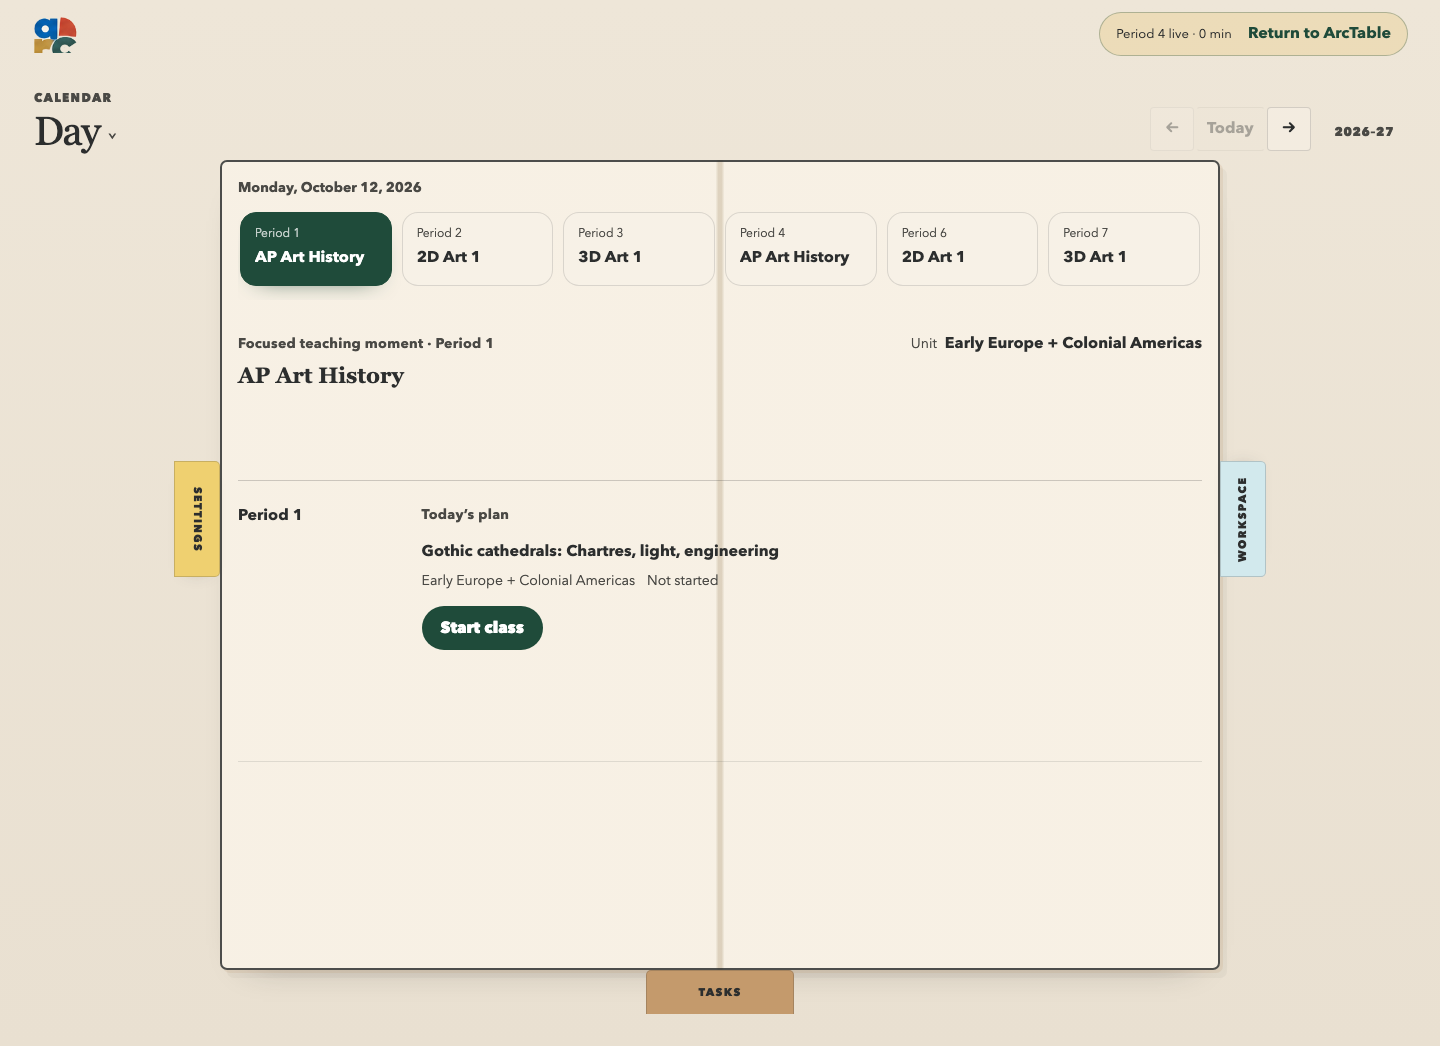
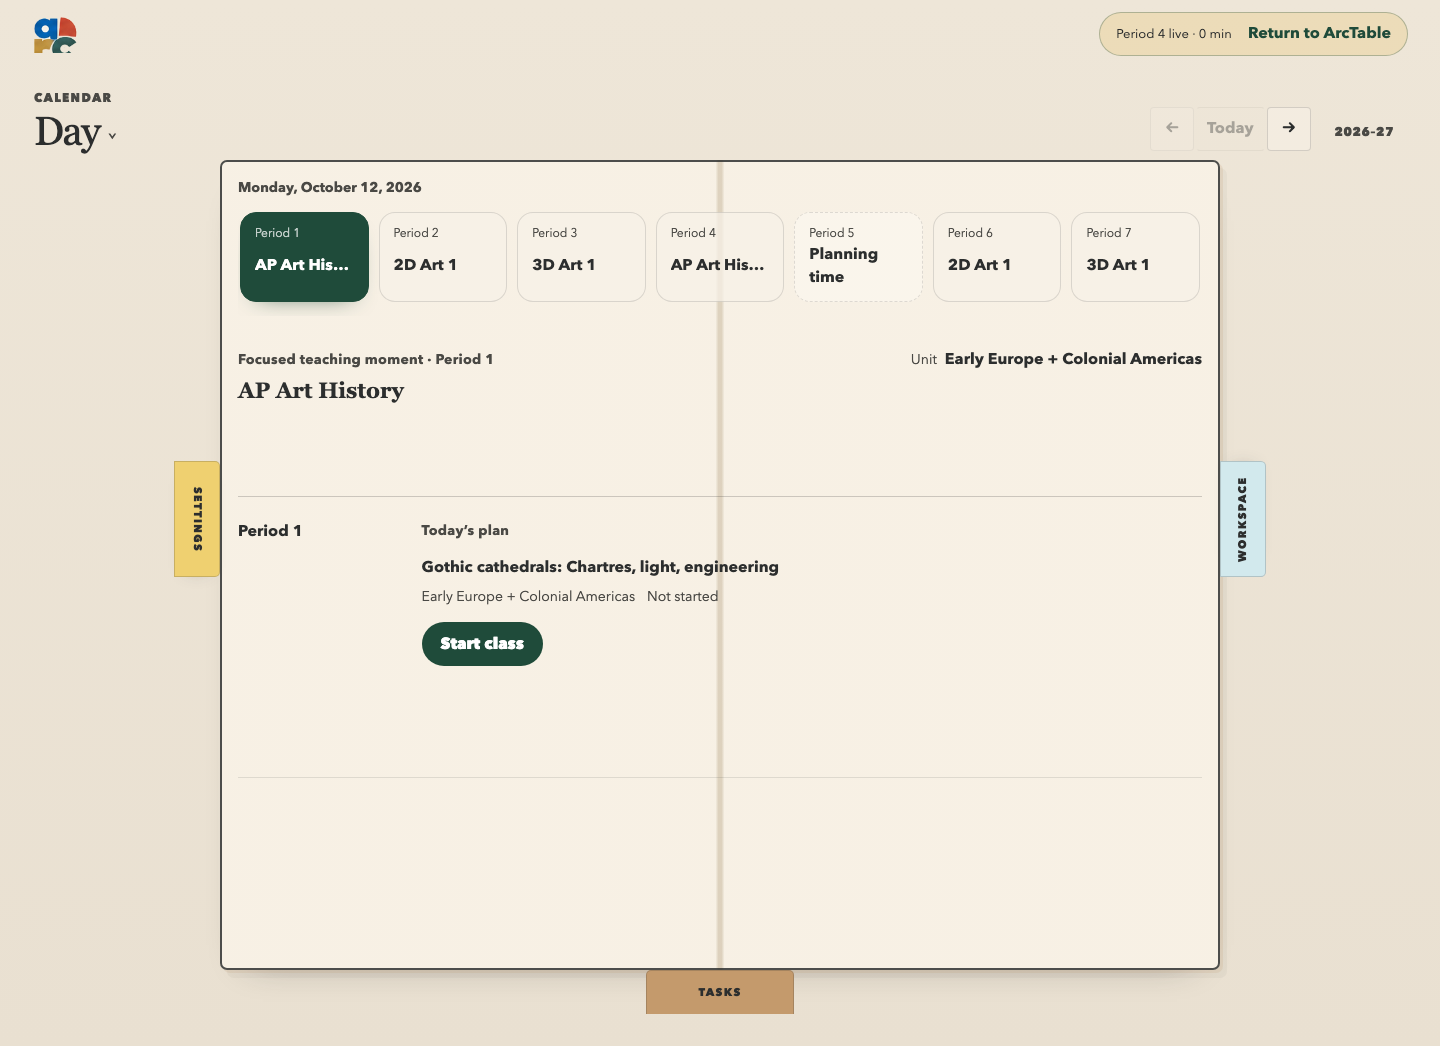
docs(arctable): preserve verification evidence

diff --git a/docs/overnight/ARC_MULTIPREP_ARCTABLE_REPORT.md b/docs/overnight/ARC_MULTIPREP_ARCTABLE_REPORT.md
@@ -1,90 +1,149 @@
-# Arc Multi-Prep + ArcTable integration report
+# Arc Multi-Prep + ArcTable production report
 
-Date: 2026-09-12  
-Branch: `codex/arc-multiprep-arctable-integration`  
-Starting/base HEAD: `f543ff25f86277809d68daeda5bb2a7bbe34a17f` (`design/v1-current-laws-reconciliation`)  
-Overall status: **YELLOW** — the requested core continuity path is implemented and tested; Month remains intentionally conservative, and two historical browser scripts encode superseded navigation/action placement.
+Date: 2026-09-13
 
-## What shipped
+Branch: `codex/arc-multiprep-arctable-integration`
 
-- Day is now a true teaching-day lens: a six-period multi-prep rail preserves the full day while one period is the clear working focus. The focused Lesson has the explicit `Start class` / `Resume in ArcTable` transition.
-- Week gives the selected instructional day materially more width while keeping the surrounding week readable.
-- Month remains a compact pacing and continuity lens. Unit spans sit above Lesson signals; it does not expand into full Lesson cards.
-- Year is organized as `Course → Unit sequence`. Each Course retains a distinct, subtle structural underlay and shared-plan Section count.
-- The visible “Fridge” metaphor is retired. The same reversible holding-place behavior is preserved as **Workspace**, including loose Lessons/Units, move-to-date, return-to-Workspace, undo, and capture-before-Course-placement.
-- ArcTable now has a dedicated public session/outcome boundary, durable live-session storage, a Teacher Monitor, and a distinct projected Student Surface.
-- A teacher can move `live → Plan View → live` without changing Lesson identity, Section identity, timer origin, phase, materials, voice expectation, cleanup state, or board lock.
-- `End Class` is deliberately different from opening Plan View. It records only the active Section outcome: complete, stop with a required resume note, or skip only while the launch still represents a never-started class.
-- Calendar setup error focus was repaired so the rendered error summary receives focus reliably.
+Design base: `f543ff25f86277809d68daeda5bb2a7bbe34a17f` (`design/v1-current-laws-reconciliation`)
 
-## Evidence sources used
+Continuation starting HEAD: `3cd321249722d772632e85bd72f3c8f6e11a832d`
+Overall status: **GREEN** — the core planning/live-class path and classroom tools are implemented, durable, accessible, and covered. Real slide-deck interoperability remains YELLOW.
 
-### Figma
+## Status vocabulary
 
-File `guts` (`CfWcuQPY4ljYXondICj2ZX`), page **Arc Multi-Prep Synthesis** (`6:46`) was inspected frame-by-frame:
+- **GREEN++**: implemented and proven across domain contracts, browser interaction, persistence boundaries, and hostile/continuity checks where relevant.
+- **GREEN**: implemented, accessible, persistent where required, and covered by appropriate verification.
+- **YELLOW**: intentionally limited or not yet proven end-to-end against a real external integration.
+- **RED**: missing, broken, or falsely represented as functional. There are no known RED rows in this report.
 
-- `7:46` — State 1 / My Teaching Day
-- `8:46` — State 2 / Working Inside a Class
-- `8:105` — State 3 / Planning a Course
-- `8:183` — State 4 / Longer Horizon Across Preps
-- `8:243` — State 5 / Plan in Motion
-- `12:46` — Product Architecture
-- `12:60` — Plan View / Week + Workspace
-- `12:155` — Live Monitor / ArcTable
-- `12:199` — Plan View while P4 stays Live
-- `14:49` — ArcTable Teacher Monitor
-- `15:46` — ArcTable Projected Student View
+Rendering alone never earns GREEN.
 
-The implementation follows the hierarchy and interaction laws in those frames, not a pixel-for-pixel reconstruction of a single static canvas.
+## Public architecture and donor boundary
 
-### ARC ASSETS 910
+There is still one canonical Arc planner. ArcTable is a temporary, Section-specific live projection that returns one explicit teaching outcome to the existing Lesson delivery-state model.
 
-The archive was inventoried before use. The production/manifests/fonts subset contained 317 production files, 21 manifest files, and 192 font files. `manifests/AUDIT_STATUS.txt` reports the asset library as GREEN++ but the broader product as not yet GOLD. `production/logos/arctable/PLACEMENT.md` and `GOLD-AUDIT.md` were used to select approved placements.
+```text
+AppFrame
+  ├─ useArcTableSession
+  │    └─ arcTableLiveState + arcTableTools
+  ├─ ArcTableTeacherMonitor
+  │    └─ live timer / cleanup / people / passes / media
+  └─ ArcTableStudentSurface
+       └─ deliberately projected public state only
 
-Integrated production assets:
+arcTableSession ──────────→ easelSessionProjection (validated donor)
+arcTableTeachingOutcome ──→ easelTeachingOutcome (validated donor)
+```
 
-- Arc mark, planner paper, and note paper
-- Instrument Serif and League Spartan
+Legacy Easel donors remain intentionally untouched:
+
+- `src/planning/easelSessionProjection.ts`
+- `src/planning/easelTeachingOutcome.ts`
+- their projection, outcome, and hostile core-loop contracts
+
+No legacy roster, pass-state, or media subsystem existed. The new tool state is scoped to the live Section and stored inside the existing durable ArcTable session boundary; it is not a second planning model.
+
+## Brutally accurate state table
+
+| State / capability | Visual presence | Verified functionality | Status |
+|---|---|---|---|
+| Day | Six-period teaching rail plus explicit Period 5 planning time and one focused teaching moment | Browser verifies Periods 1/2/3/4/6/7, Period 5 gap, focus, and P4 launch | **GREEN** |
+| Week | Selected day is materially wider; surrounding days remain readable | Browser measures unequal columns and verifies Section drift/fixed work remains visible | **GREEN** |
+| Month | Compact Unit bands, Lesson signals, Fixed labels, drift labels, and real gaps | Browser verifies Unit continuity, a fixed assessment, Period 6 drift, and no full-card expansion | **GREEN** |
+| Year | Course rows with subtle structural underlays and Unit sequence | Browser verifies all Courses and one underlay per Course at Unit resolution | **GREEN** |
+| Workspace | All visible and accessible language says Workspace | Capture-before-Course, holding, placement, return, and undo retain existing contracts; no visible “Fridge” in browser | **GREEN** |
+| Live identity | Course, Section, Unit, Lesson, phase, and class elapsed context | Identity and immutable `startedAt` survive Plan View and refresh; outcome remains Section-only | **GREEN++** |
+| Classroom timer | Production normal ring, editable duration, 5/10/15 presets, Start/Pause/Resume/Reset | Independent deterministic origin; running and paused states survive Plan View and refresh; completion settles explicitly | **GREEN++** |
+| Cleanup | Production cleanup ring/accent, distance-readable Student mode | Separate countdown supports start, pause, resume, cancel, completion, Plan View persistence, and never ends class | **GREEN++** |
+| People picker | Section-labeled production people surface and live result | Empty state, normalized names, duplicate prevention, keyboard operation, live announcement, persistence, deliberate projection, no planning mutation | **GREEN** |
+| Pass tools | Production available/active plates with requested/active/inactive state | Section-scoped, keyboard-native, persistent through Plan View, private on Student Surface, cleared with End Class | **GREEN** |
+| Artwork/image media | Real media apparatus with intentional empty and active states | Safe source schemes, selection, Plan View restore, deliberate Student projection, teacher-only edit controls | **GREEN** |
+| Presentation/slide media | Same apparatus supports a `slides` item and isolated iframe | State and render path are contract/type/build covered, but no real external deck was exercised end-to-end | **YELLOW** |
+| Projected Student Surface | Distinct quiet surface, normal/cleanup timer rings, media and optional picked student | No private pass data, no hidden keyboard-reachable controls, only one visible Exit projection action, 390px reflow | **GREEN** |
+| End Class | Explicit outcome dialog | Complete/stop-with-required-note/never-started-skip; clears live tools only after confirmation | **GREEN++** |
+
+## Classroom timer truth
+
+- `startedAt` remains immutable metadata for elapsed class duration.
+- `timer` owns independent duration, remaining seconds, status, and deterministic running origin.
+- `cleanupTimer` is a second countdown with independent status and duration.
+- Countdown states are `idle`, `running`, `paused`, and `completed`; cleanup is an explicit instructional mode derived from the cleanup countdown rather than a cosmetic boolean.
+- Live state schema is version 2. Stored version-1 sessions migrate forward, including an active legacy cleanup state.
+
+## People, pass, and media privacy
+
+- People, passes, and media each carry the active `sectionId`.
+- People selection and all pass details remain teacher-only unless a teacher explicitly projects the selected person.
+- The Student Surface never renders pass labels or states.
+- Only the active media item is shown, and only after the teacher enables projection.
+- Live tools are proven not to modify canonical planning workspace data.
+- End Class removes the live-session boundary, resolving transient people/pass/media state without inventing durable student records.
+
+## ARC ASSETS 910 function audit
+
+The archive subset contained 317 production files, 21 manifest files, and 192 font files. `AUDIT_STATUS.txt` calls the asset library GREEN++ but does not call the product GOLD. `PLACEMENT.md` and `GOLD-AUDIT.md` governed identity placement. No audit/gold label is exposed in product UI.
+
+### Wired because behavior exists
+
+- Arc mark, planner/note paper, Instrument Serif, League Spartan
 - ArcTable compact light/dark headers
-- ArcTable breeze-block tile, board panel, timer well, progress rail, normal/cleanup timer rings, cream paper, and green texture
+- board panel, progress rail, timer well, normal timer ring, cleanup timer ring
+- cleanup corner accent, people surface, pass available/active plates, media apparatus frame
 
-No “gold” badge or audit language is exposed in the product UI.
+### Represented functionally without redundant image layers
 
-## State-by-state status
+- progress markers: semantic progress rail and CSS fill
+- clock plate: readable live system clock and separate class duration
+- student display surface: dedicated Student component/surface
+- tools/people/pass tabs and teacher sidebar: semantic native controls and responsive sidebar
 
-| State | Status | Evidence / note |
-|---|---|---|
-| Day | **GREEN** | Six-period rail plus one focused teaching moment; repeated preps remain visible and each period can become current. |
-| Week | **GREEN** | Selected day is wider than surrounding days; multi-prep context and Workspace remain available. |
-| Month | **YELLOW** | Correct compact Unit/Lesson continuity and no oversized Lesson cards. Dense months are deliberately information-heavy and pre-school-year cells retain explicit unknown status. |
-| Year | **GREEN** | All Courses shown at Unit resolution with distinct structural underlays and readable Unit sequences. |
-| Workspace | **GREEN** | Visible metaphor and copy replaced; capture, unscheduled holding, placement, return, and undo survive. Internal legacy identifiers remain temporarily to preserve persisted contracts. |
-| ArcTable Teacher Monitor | **GREEN** | Course/Section/Lesson context, phase progress, live timer, materials, voice, board lock, student preview, people/pass tools, cleanup, Plan View, and explicit End Class. |
-| Projected Student Surface | **GREEN** | Quiet full-screen prompt with directions, timer, materials, phase, voice, and cleanup; teacher controls are absent. |
-| Live → Plan → Live | **GREEN** | Browser gate proves stable `startedAt`, Lesson id, Section id, and phase across the round trip. |
+### Deliberately not wired because behavior is outside this pass
+
+- Now/Next tabs, resource QR frame, hold/reconnecting plates
+- blackout/pause surface
+- group marker, groups folder, unit magnet, activity chip
+- notes and resources folders
+- decorative accents and separator variants already covered by the authored surface system
+
+These remain honest YELLOW inventory items rather than controls that pretend to work.
+
+## Design and accessibility audit
+
+- Approved Figma file `guts` (`CfWcuQPY4ljYXondICj2ZX`), page `Arc Multi-Prep Synthesis` (`6:46`), was reviewed against Day, Week/Workspace, plan-while-live, Teacher Monitor, and Student Surface frames.
+- Manual image review confirmed authored tactile/editorial character, central working space, variable emphasis, production identity placement, and distinct teacher/student hierarchy.
+- The required 12ui target comparison was attempted after installing the pinned CLI, but platform review blocked repository/reference upload to the external service because that egress was not explicitly authorized. No workaround was attempted. Local visual review and browser evidence continued independently.
+- Native buttons/inputs/selects provide keyboard operation and accessible names. Picker results use a polite live region.
+- Focus visibility is browser-verified. ArcTable motion is suppressed under `prefers-reduced-motion: reduce`.
+- Planner shell tests cover 200%/400% zoom and 320/390px widths. ArcTable additionally covers Teacher and Student reflow at 390px.
+- A verified Student overflow at 390px was fixed in this pass.
 
 ## Verification
 
-Passing:
+Verified before functional changes:
 
-- `npm run test:contracts` — 40/40 contract groups, including ArcTable persistence and all existing calendar/planning/recovery contracts
+- `npm run test:contracts`
 - `npm run typecheck`
 - `npm run build:bundle`
 - `node tests/arctable-continuity.smoke.mjs`
-- `node tests/phase2-nondrag-keyboard-parity.mjs`
-- `node tests/phase2-object-actions-section-divergence.mjs`
-- `node tests/phase2-recovery-undo-continuity.mjs`
-- `node tests/phase2-calendar-edge-planning-truth.mjs`
 - `git diff --check`
 
-Historical test mismatches, documented rather than masked:
+The four legacy phase-browser commands were dispatched during the initial baseline, but their completion output was not captured. The final verification sweep later exposed stale header-action selectors in all four. They were migrated to the current Settings workflow and then passed individually and in the final suite; they are not claimed as pre-change passes.
 
-- `tests/browser-a11y.smoke.mjs` reaches the repaired setup-error focus check, then expects all six internal calendar horizons to be visible. Current navigation law exposes only Day, Week, Month, and Year.
-- `tests/phase2-planning-truth.mjs` expects a visible `Set classes` header action. Current product architecture places that action in Settings furniture.
+Passing after functional changes:
 
-The new smoke gate covers the requested multi-prep seed (AP Art History, 2D Art 1, 3D Art 1 across Periods 1/2/3/4/6/7), Day/Week/Month/Year, Workspace, P4 ArcTable launch, teacher controls, the distinct Student Surface, live-plan-live continuity, and a Section-scoped teaching outcome.
+- `npm run build` — 41 contract groups, type-check, production bundle
+- `node tests/arctable-continuity.smoke.mjs`
+- `node tests/browser-a11y.smoke.mjs`
+- `node tests/phase2-planning-truth.mjs`
+- existing keyboard parity, Section divergence, recovery/undo, and calendar-edge planning gates
+- `git diff --check`
 
-## Screenshot evidence
+Six obsolete browser tests were updated to current product law:
+
+- visible navigation is Day / Week / Month / Year; Semester and Quarter remain internal boundary concepts
+- calendar, Course/Section, Unit, and Lesson setup lives in Settings furniture instead of permanent header actions
+
+## Fresh evidence
 
 - `evidence/01-day-multiprep.png`
 - `evidence/02-week-workspace.png`
@@ -93,10 +152,16 @@ The new smoke gate covers the requested multi-prep seed (AP Art History, 2D Art 
 - `evidence/04-plan-while-live.png`
 - `evidence/05-teacher-monitor.png`
 - `evidence/06-student-surface.png`
+- `evidence/07-timer-running.png`
+- `evidence/08-people-picker.png`
+- `evidence/09-pass-tools.png`
+- `evidence/10-media.png`
+- `evidence/11-cleanup-teacher.png`
+- `evidence/12-cleanup-student.png`
 
-## Architecture and debt notes
+## Guardrails honored
 
-- There is still one canonical planner. ArcTable projects a temporary live-teaching session from current Day continuity and writes back through the existing Lesson delivery-state model.
-- The existing Easel implementation remains the validated donor underneath ArcTable-named adapter modules. This keeps old contracts intact while presenting one new public product boundary; deleting the donor is follow-up cleanup, not a prerequisite for the feature.
-- Existing `fridge*` function names, storage contracts, CSS hooks, and test IDs remain internal compatibility seams. Visible product language and accessible labels use Workspace.
-- Month density and the two historical browser expectations are the remaining explicit YELLOW items. No deploy, Vercel mutation, merge, or main-branch edit was performed.
+- Existing `fridge*` internal compatibility seams remain intact.
+- Existing validated Easel donor code remains intact.
+- `main` and `design/v1-current-laws-reconciliation` were not modified.
+- No merge, deployment, or Vercel configuration change was performed.

diff --git a/docs/overnight/ARC_CONTINUATION_LOG.md b/docs/overnight/ARC_CONTINUATION_LOG.md
@@ -1,0 +1,67 @@
+# Arc + ArcTable continuation log
+
+## Guardrails and starting state
+
+- Date: 2026-09-13
+- Branch: `codex/arc-multiprep-arctable-integration`
+- Starting HEAD: `3cd321249722d772632e85bd72f3c8f6e11a832d`
+- Starting worktree: clean and tracking `origin/codex/arc-multiprep-arctable-integration`
+- Protected: `main` and `design/v1-current-laws-reconciliation` will not be modified.
+- Delivery boundary: no merge, deployment, or Vercel/configuration mutation.
+
+## ArcTable dependency map before continuation
+
+```text
+AppFrame
+├── projectArcTableSession
+│   └── legacy easelSessionProjection
+├── applyArcTableTeachingOutcome
+│   └── legacy easelTeachingOutcome
+│       ├── easelSessionProjection
+│       ├── dayContinuityProjection
+│       └── canonical Lesson/Unit/Planning validators
+├── useArcTableSession
+│   └── arcTableLiveState persistence
+└── ArcTableSurfaces
+    ├── ArcTableTeacherMonitor
+    └── ArcTableStudentSurface
+```
+
+Legacy donor inventory: `easelSessionProjection.ts`, `easelTeachingOutcome.ts`, and their three contract suites (`easelSessionProjection.contract.ts`, `easelTeachingOutcome.contract.ts`, `easelCoreLoop.hostile.contract.ts`). No roster, people-picker, pass-state, or media-state subsystem exists elsewhere in the current repository.
+
+## Pre-change baseline
+
+The following baseline gates were observed passing at starting HEAD:
+
+- `npm run test:contracts` — 40 contract groups
+- `npm run typecheck`
+- `npm run build:bundle`
+- `node tests/arctable-continuity.smoke.mjs`
+- `git diff --check`
+
+The four legacy phase-browser commands were dispatched during the initial baseline, but their completion output was not captured. The final sweep later exposed their obsolete header-action selectors. They were migrated to the current Settings workflow and subsequently passed; this log does not misstate them as baseline passes.
+
+## Production decisions
+
+- Classroom elapsed duration remains derived solely from immutable `startedAt`.
+- Classroom countdown, cleanup countdown, people, passes, and media belong to the durable live-session boundary; none may create a second planner or mutate Lesson planning truth.
+- Because no legacy roster, pass, or media model exists, this pass adds section-scoped live tools rather than inventing canonical school-wide data.
+- Validated Easel projection/outcome donors remain untouched behind ArcTable-named adapters.
+
+## Queue completion matrix
+
+| Queue lane | Steps | Status | Evidence |
+|---|---:|---|---|
+| Branch, guardrails, inventory, baseline | 1–20 | VERIFIED | Clean starting worktree, dependency map above, and observed baseline outputs recorded without overstating the four uncaptured legacy phase runs |
+| Classroom timer | 21–40 | VERIFIED | Version-2 live state, deterministic countdown contract, Plan View/refresh/paused browser assertions, fresh timer screenshot |
+| Cleanup | 41–50 | VERIFIED | Independent cleanup countdown, start/pause/resume/cancel/complete, Plan View continuity, teacher/student evidence |
+| People picker | 51–60 | VERIFIED | Repository inventory found no roster donor; Section live roster, keyboard selection, live announcement, projection privacy, contract/browser coverage |
+| Pass tools | 61–70 | VERIFIED | Repository inventory found no pass donor; requested/active/inactive Section state, keyboard labels, Plan View persistence, Student privacy, End Class clearing |
+| Media | 71–80 | VERIFIED with one YELLOW integration | Image behavior is browser-proven; slide rendering/state is implemented but not exercised against a real external deck |
+| Production asset audit | 81–90 | VERIFIED | Function-to-asset checklist in production report; no inert controls; Student DOM privacy assertion |
+| Planner/accessibility audit | 91–97 | VERIFIED | Period 5 planning gap; Week width measurement; Month fixed/drift/continuity; Year underlays; Workspace language; updated obsolete tests; browser accessibility gate |
+| Evidence/report/final verification | 98–100 | VERIFIED | Twelve fresh evidence states captured; report updated; build, 41 contract groups, type-check, bundle, seven browser gates, and `git diff --check` passed. Coherent commits and protected-branch push are the authorized terminal actions immediately following this log. |
+
+## Tool constraint
+
+The required 12ui target comparison was attempted with the pinned 0.2.65 CLI against the approved Teacher Monitor image. Platform review rejected repository/reference upload to the external service because that data egress was not explicitly authorized. No workaround was attempted. Manual side-by-side image review and local browser verification were completed instead; this constraint does not block product behavior.
